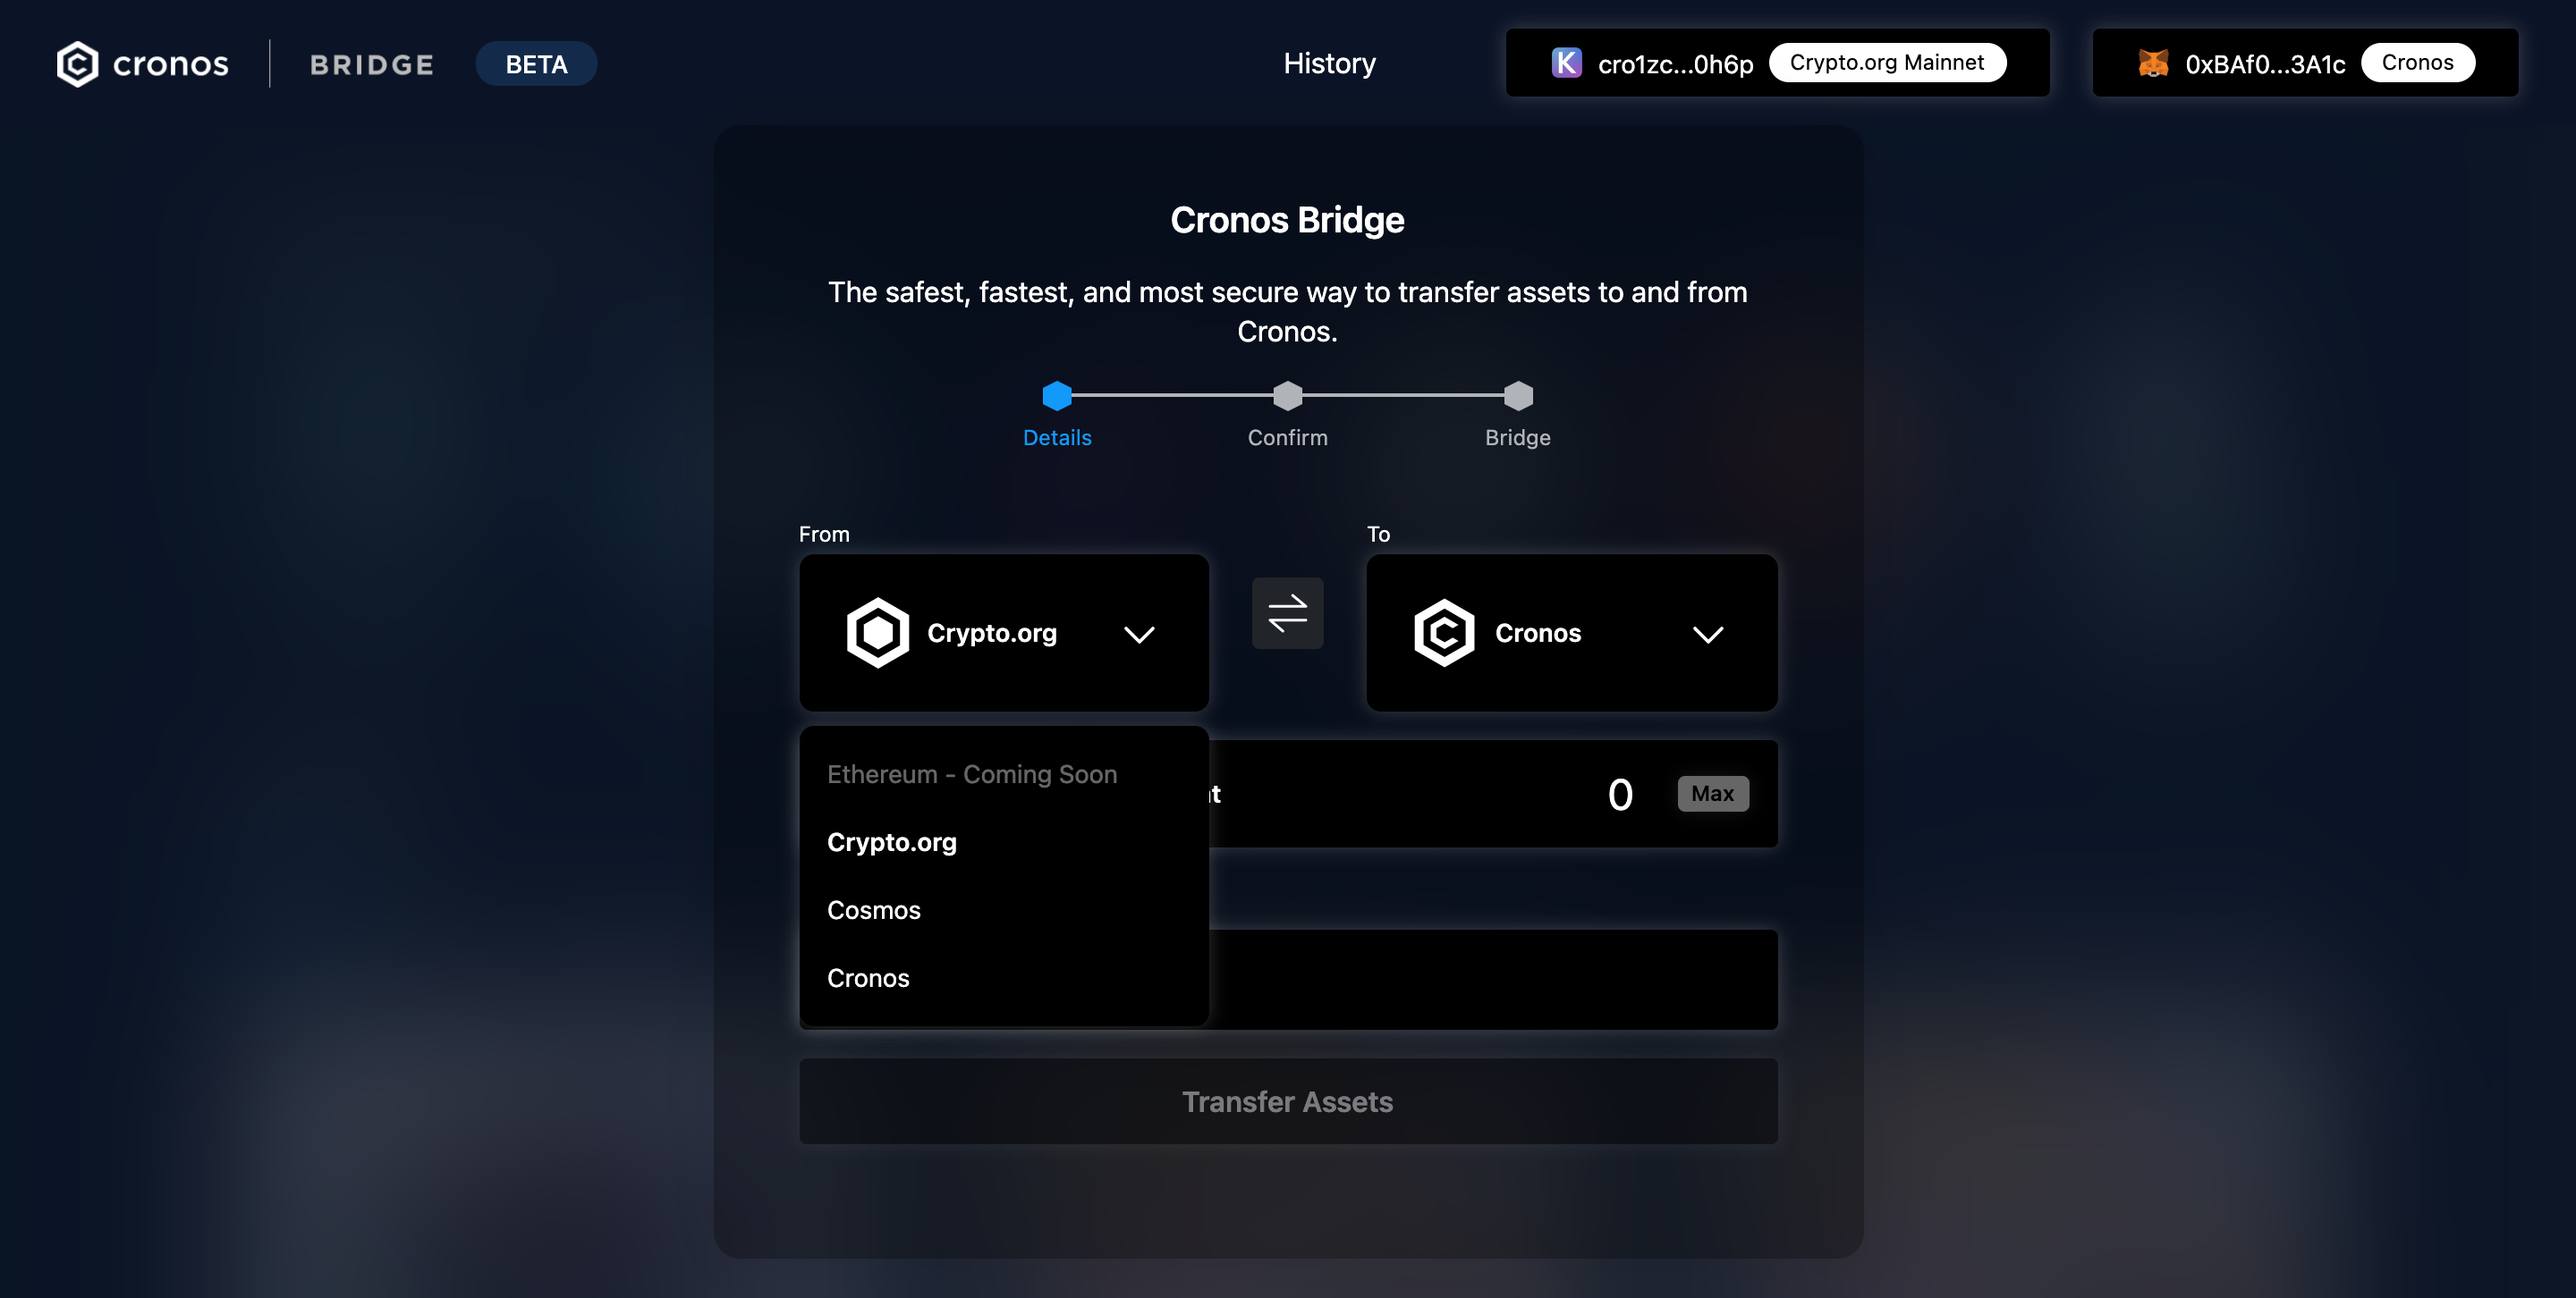
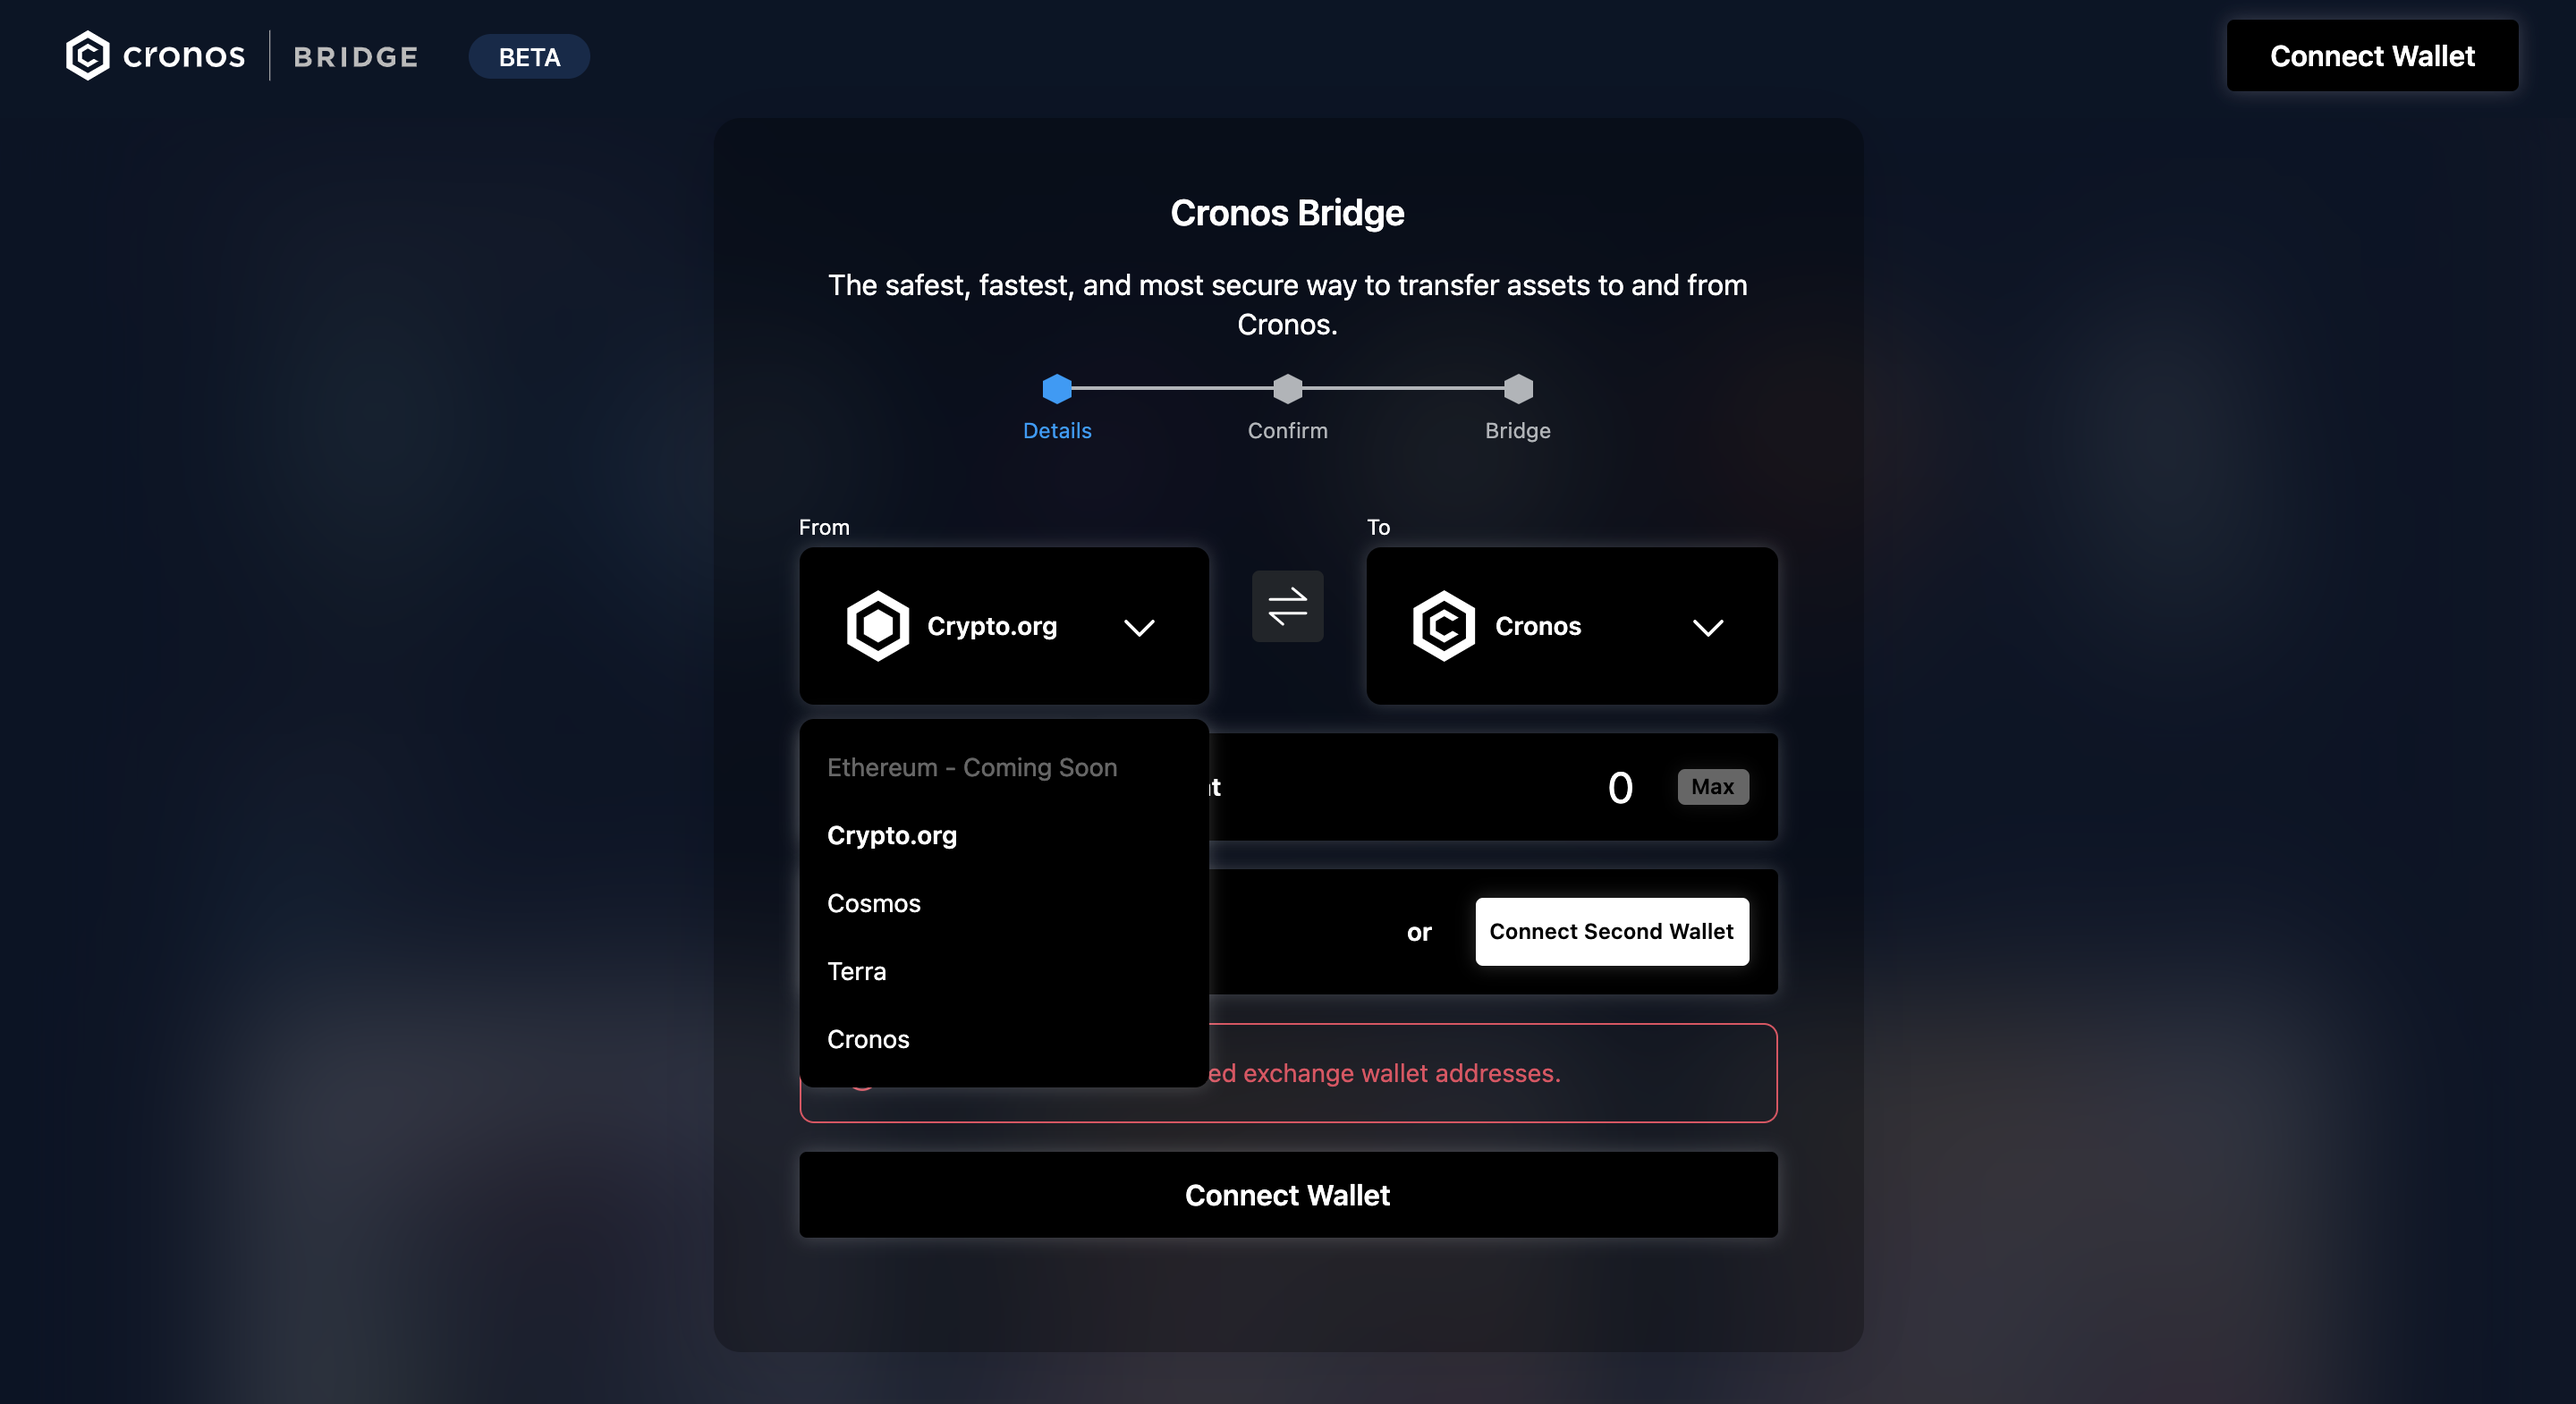
bridge_web_update

diff --git a/docs/bridge/webapp.md b/docs/bridge/webapp.md
@@ -17,12 +17,14 @@ Please read the guide carefully and review the project documentation as misuse m
 #### Currently supported networks:
 
 - Crypto.org <=> Cronos;
-- Cosmos <=> Cronos.
+- Cosmos <=> Cronos;
+- Terra <=> Cronos.
 
 #### Currently supported tokens:
 
 - CRO;
-- ATOM
+- ATOM;
+- LUNA.
 
 #### Currently supported wallets:
 
@@ -42,7 +44,9 @@ We are constantly working on adding new tokens and chain support. If you have an
 Click the “Connect Wallet’ button to connect your desktop or browser extension wallet. We currently support browser-compatible versions of the Metamask, Keplr, and Crypto.com DeFi Wallet.
 Once a connection request is sent, look for a popup from your wallet interface or click into the wallet extension to give consent.
 
-Note: If you are bridging assets from or to Crypto.org, you may specify the destination wallet by pasting the address directly or connecting a second wallet to avoid manual errors.
+Note 1: If you are bridging assets from or to Crypto.org, you may specify the destination wallet by pasting the address directly or connecting a second wallet to avoid manual errors.
+
+Note 2: Currently, Terra ⇔ Cronos only support Keplr wallet. Learn how to add your Terra station wallet to Keplr wallet, please click [here](#add-your-terra-station-wallet-to-keplr-wallet).
 
 <img src="./assets/webapp_connect_wallet.png"  alt="centered image" />
 
@@ -100,6 +104,37 @@ Thank you for using the Cronos bridge and supporting the Crypto.org ecosystem!
 <img src="./assets/5_txn_complete.png"  alt="centered image" />
 <img src="./assets/5_history_table.png"  alt="centered image" />
 
+
+### Add your Terra station wallet to Keplr wallet
+
+1. Create and log in to your Keplr wallet
+
+<img src="./assets/terra1.png"  alt="centered image" />
+
+2. Click the button on the top right corner. Then, click “+ Add Account”
+
+<img src="./assets/terra2.png"  alt="centered image" />
+
+3. Select “import existing account”
+
+<img src="./assets/terra3.png"  alt="centered image" />
+
+4. Input the Mnemonic of your Terra station wallet and name your account, then click "Next"
+
+<img src="./assets/terra4.png"  alt="centered image" />
+
+5. Go back to your Keplr account, click the button on the top right again. You will see your imported Terra station account here.
+
+<img src="./assets/terra5.png"  alt="centered image" />
+
+6. Select your imported Terra station account. Then, click the arrow on the top, and select "Terra".
+
+<img src="./assets/terra6.png"  alt="centered image" />
+
+7.  You can now use your Terra station wallet on Keplr!
+
+<img src="./assets/terra7.png"  alt="centered image" />
+
 ## FAQ
 
 ### What are the fees involved?
@@ -113,8 +148,10 @@ Thank you for using the Cronos bridge and supporting the Crypto.org ecosystem!
 ### How does the Bridge network fee waiver work?
 
 - The following transactions are eligible for a fee waiver:
-  - Crypto.org => Cronos
-  - Cronos => Crypto.org
+  - Crypto.org => Cronos;
+  - Cronos => Crypto.org;
+  - Cosmos => Cronos;
+  - Terra => Cronos.
 - The fee waived is the bridge network transaction fee on the destination chain. However, you are still liable to pay for the origin chain gas fee directly on your wallet extension.
 - This is a promotional waiver; we reserve the right to modify and terminate the promotion at any time
 
@@ -130,8 +167,10 @@ Thank you for using the Cronos bridge and supporting the Crypto.org ecosystem!
 ### What are the support blockchains and tokens?
 
 - The networks supported are:
-  - Crypto.org
-  - Cronos
+  - Crypto.org;
+  - Cronos;
+  - Cosmos;
+  - Terra;
   - Coming Soon: Cosmos and Ethereum
 
 ### What are the supported wallets?
